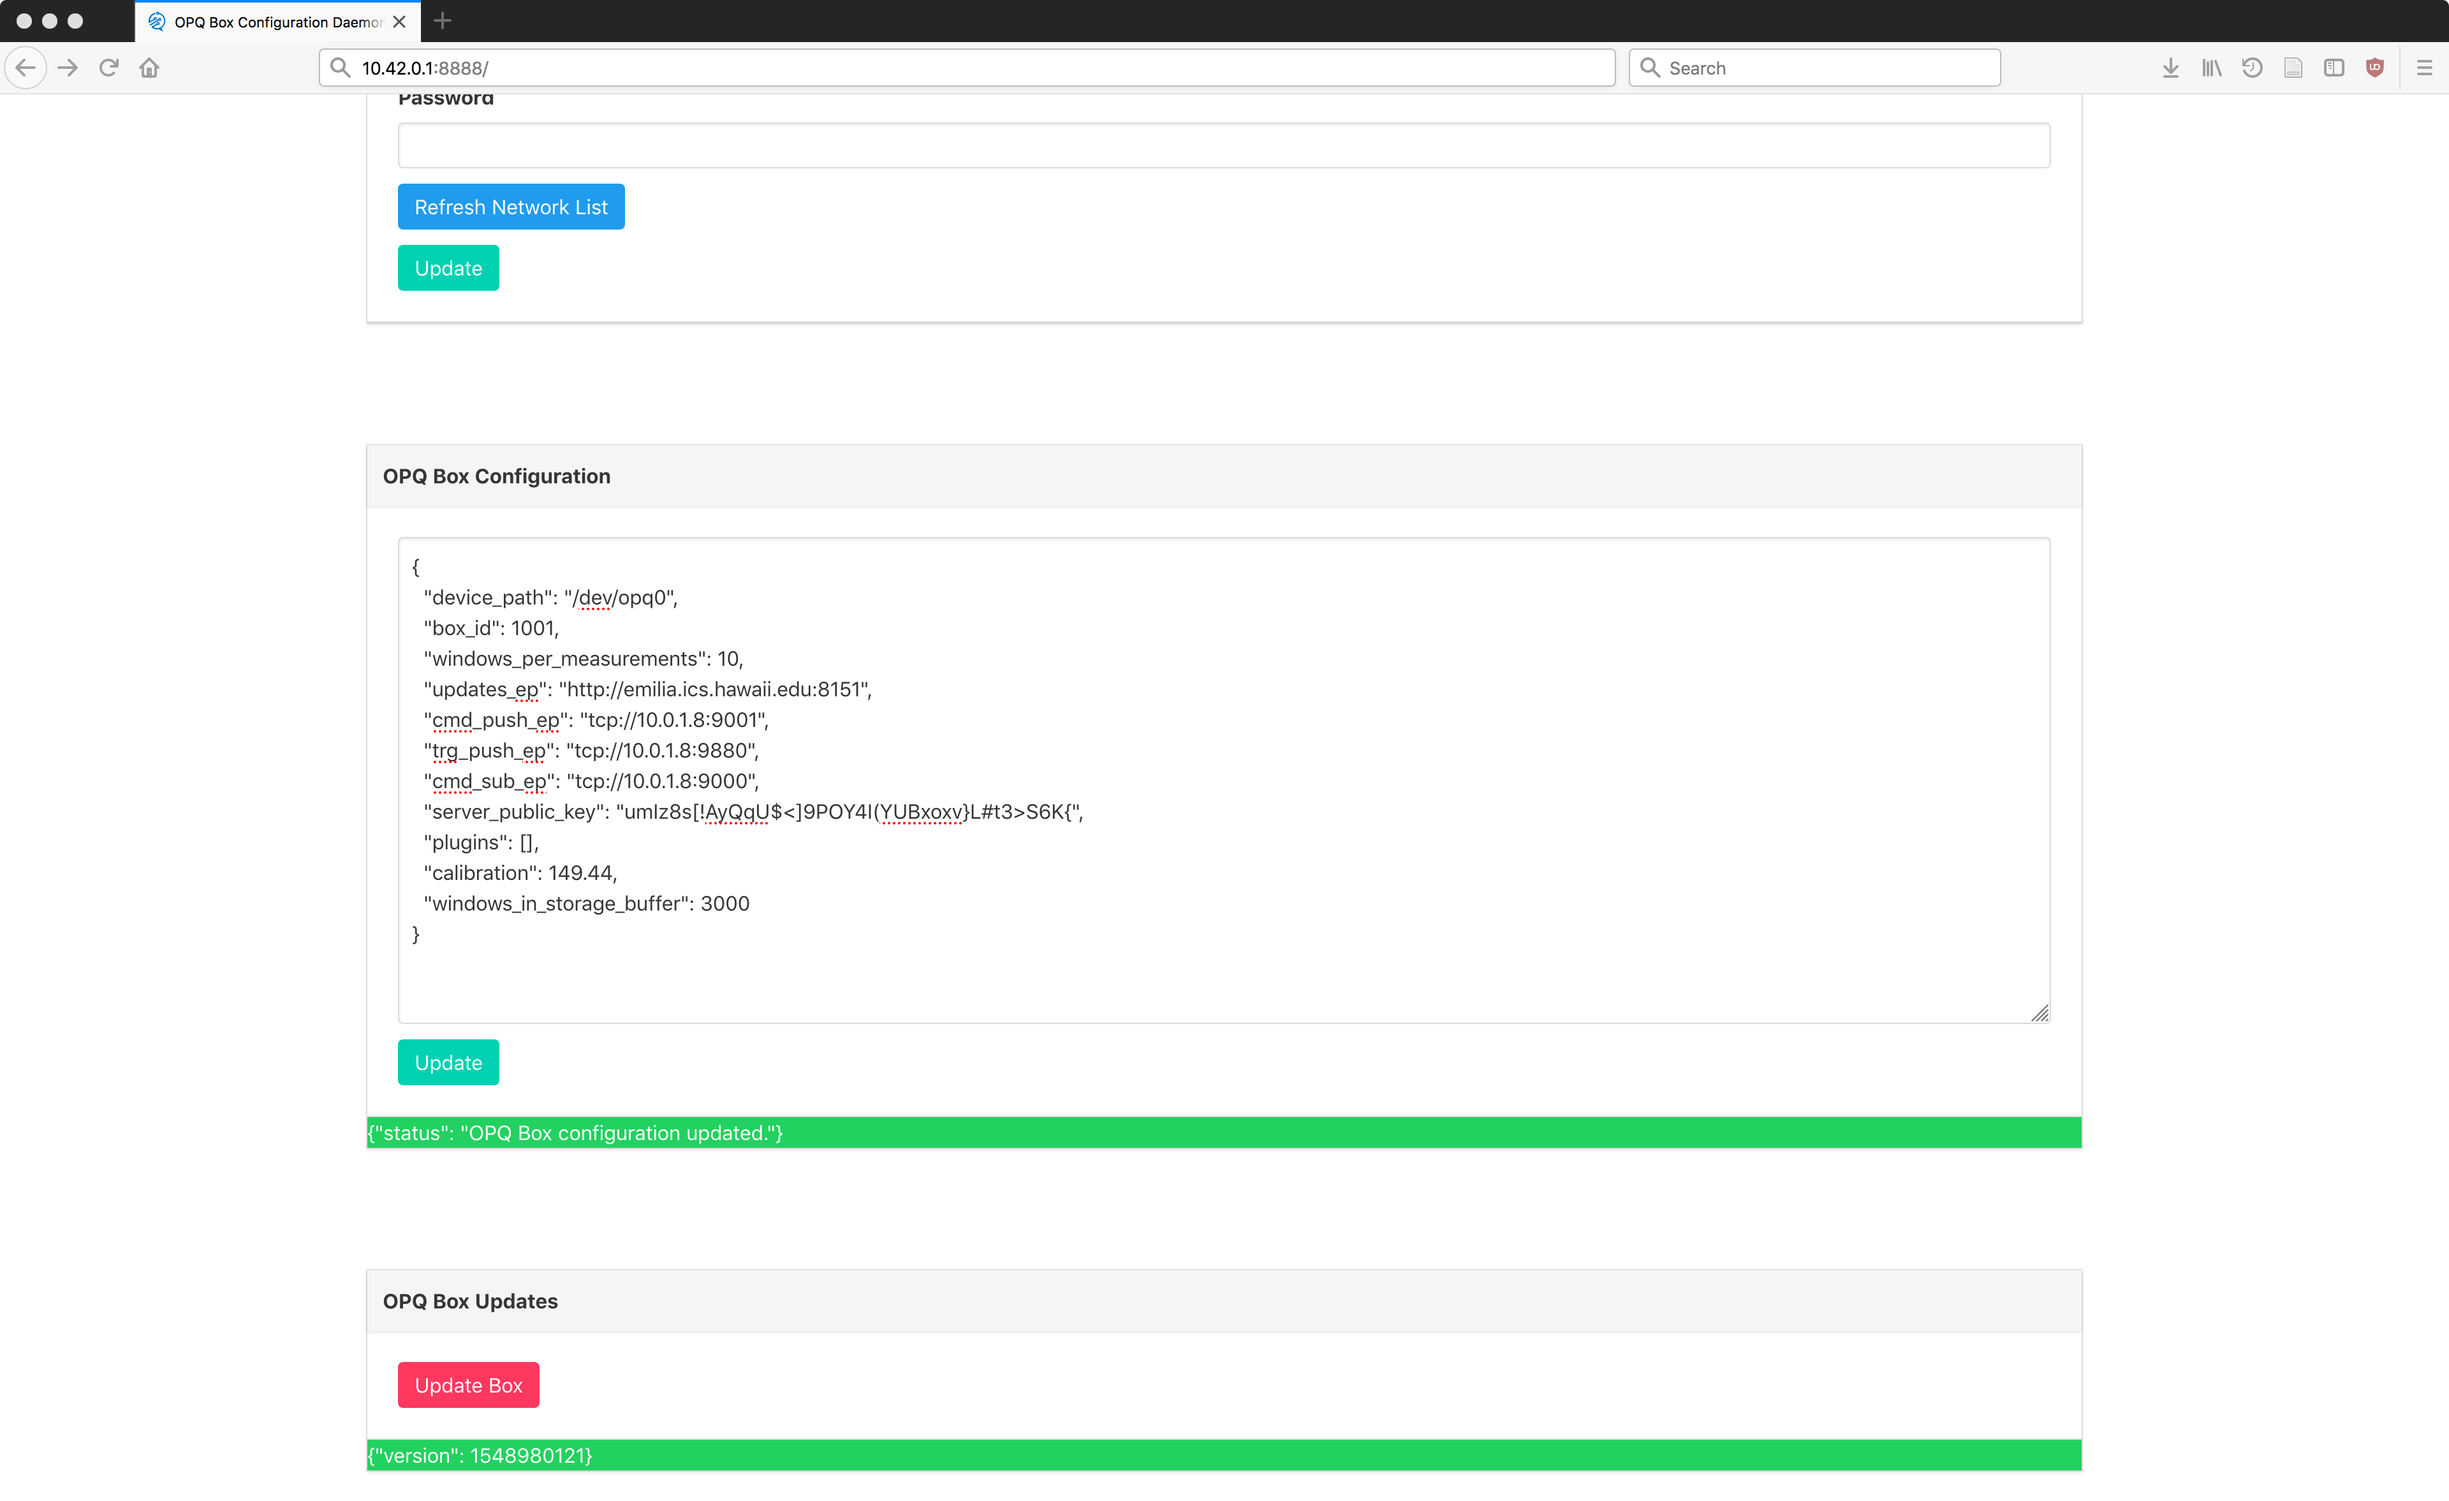
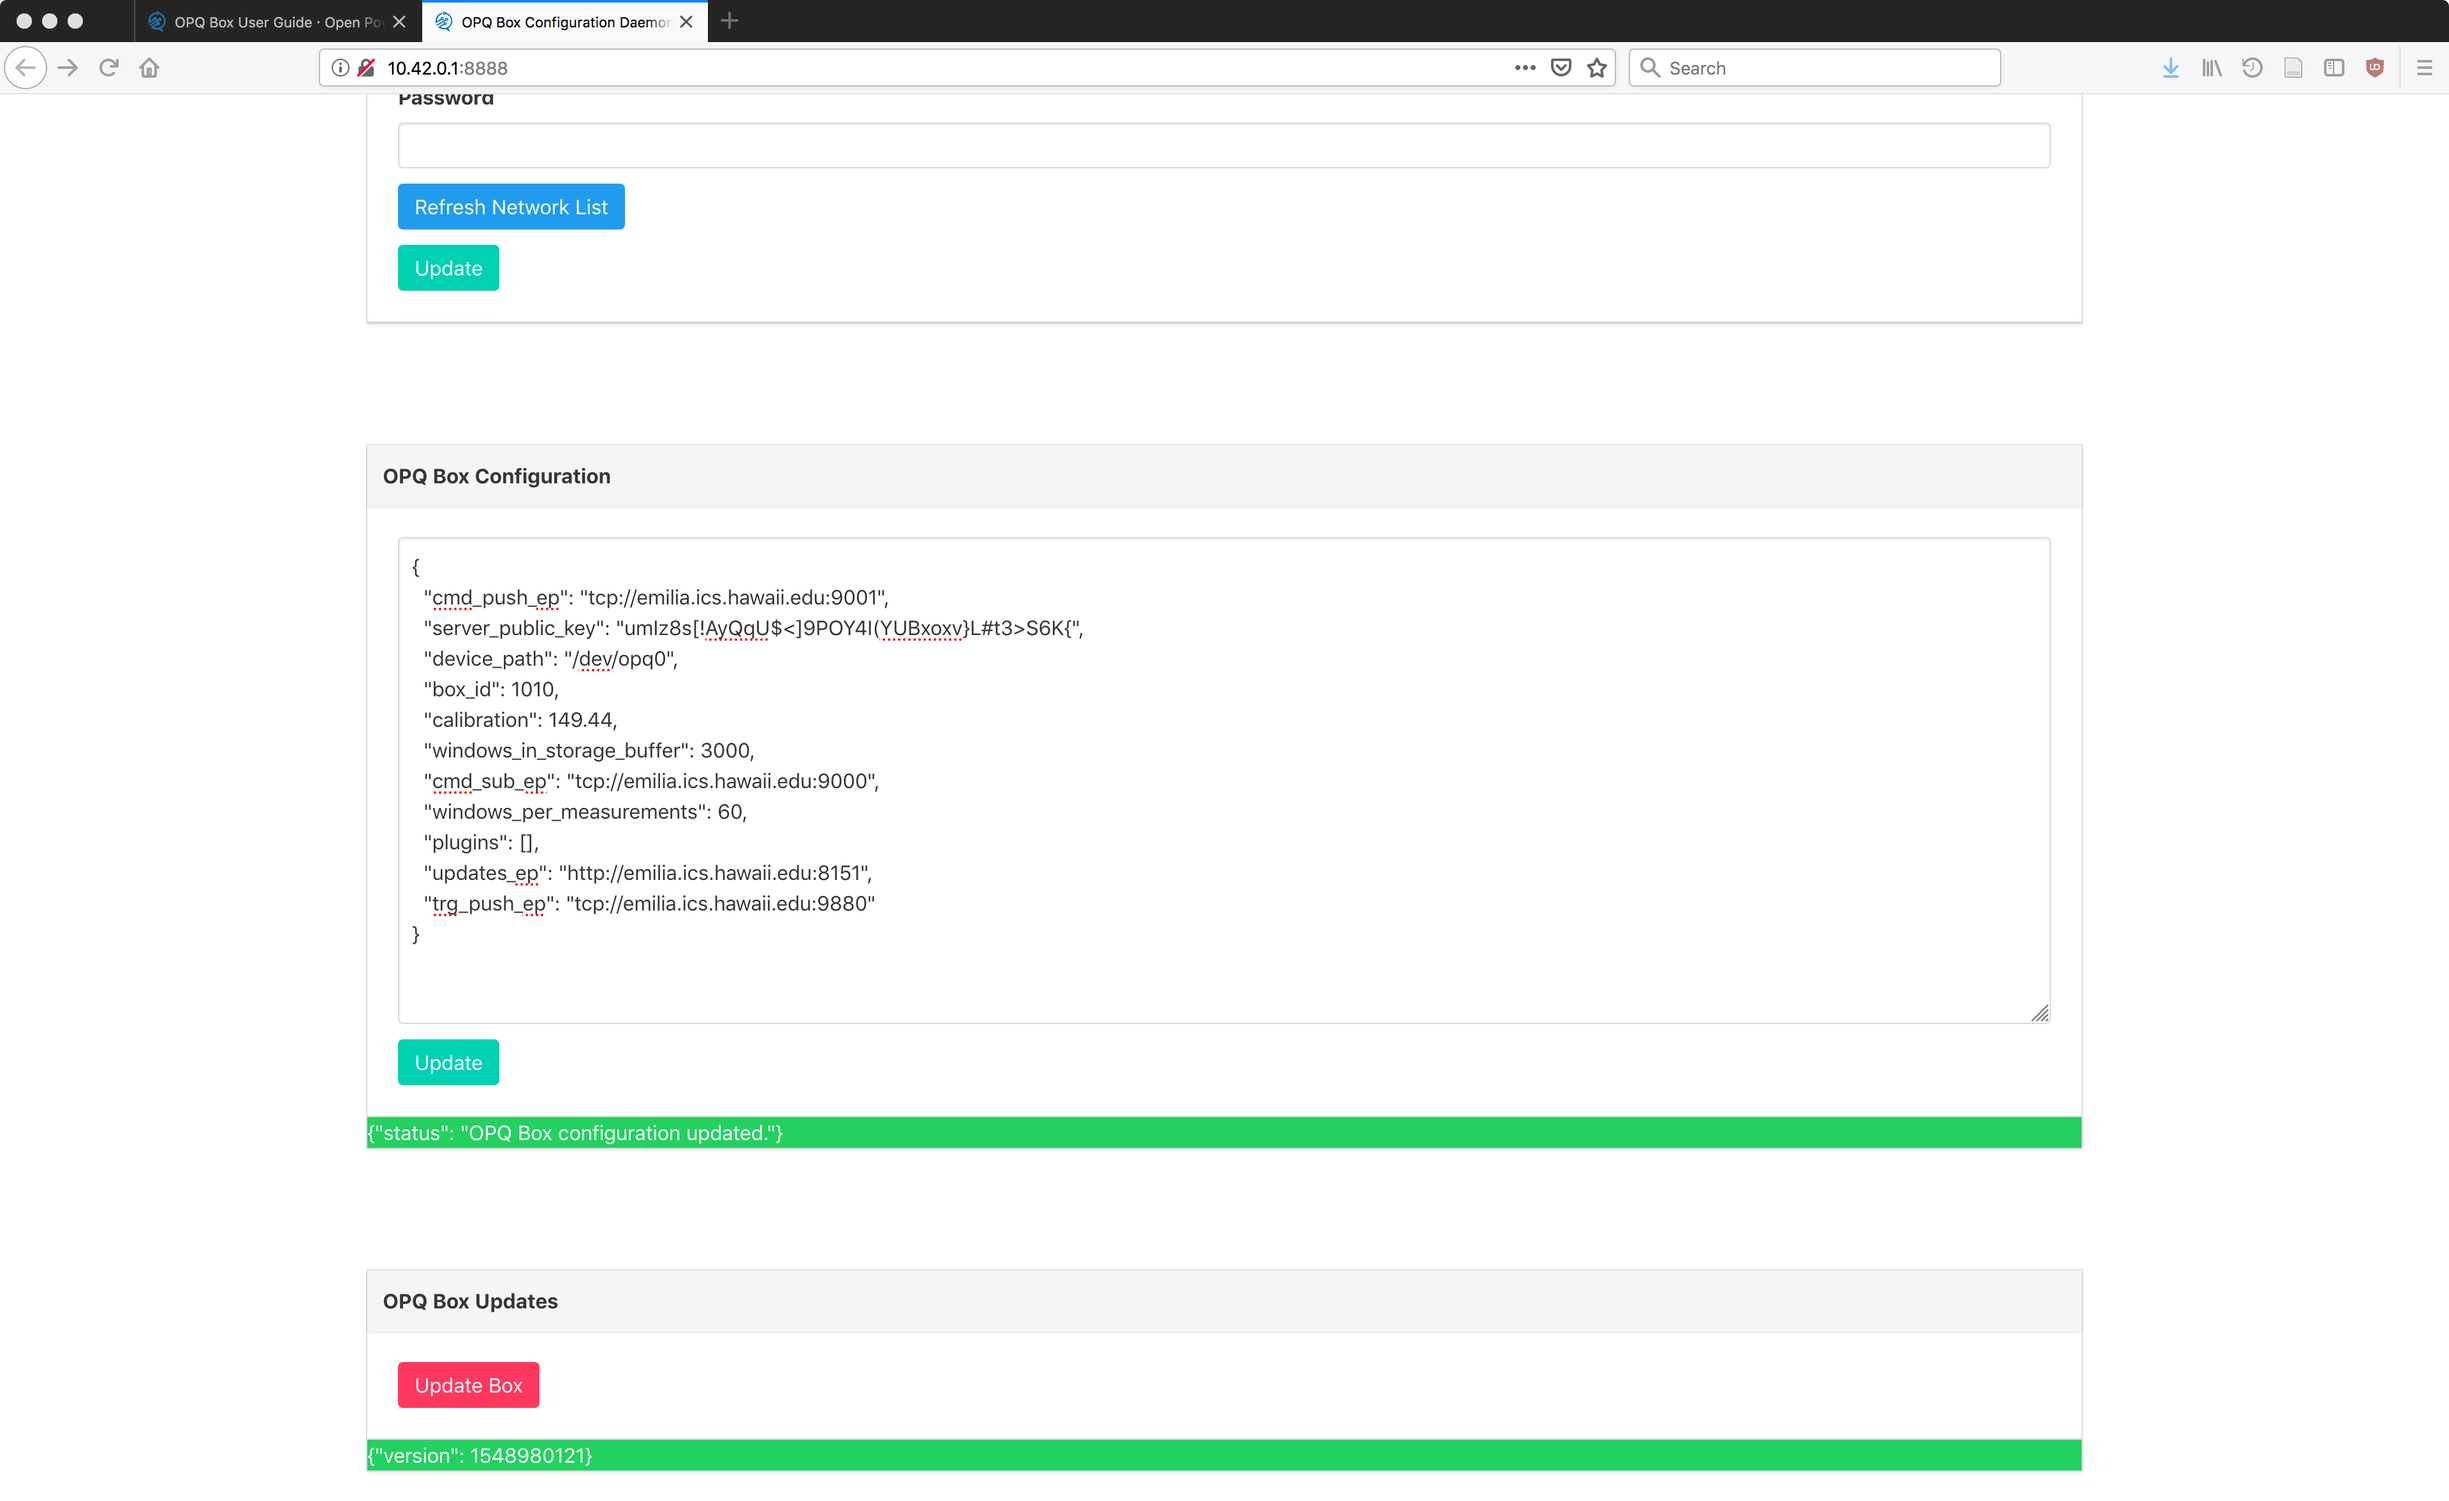
Update screenshots and some descriptions of screenshots.

Changed region(s): [[0.1875, 0.3721, 0.4375, 0.6202], [0.0312, 0.0, 0.3125, 0.062], [0.625, 0.031, 0.6562, 0.062]]

diff --git a/docs/userguide-hardware.md b/docs/userguide-hardware.md
@@ -99,7 +99,7 @@ The configuration is provided in the form of a JSON file. Only valid JSON will b
 | cmd_sub_ep | String | Subscription endpoint for acquisition (tcp://url_or_ip:port) | tcp://emilia.ics.hawaii.edu:9000 |
 | cmd_push_ep | String | Push endpoint for acquisition (tcp://url_or_ip:port) | tcp://emilia.ics.hawaii.edu:9001 |
 | trg_push_ep | String | Push endpoint for triggering (tcp://url_or_ip:port) | tcp://emilia.ics.hawaii.edu:9880 |
-| updates_ep | String | Endpoint to check and pull OPQ Box updates (http[s]://url_or_ip:port/path) | http://emilia.ics.hawaii.edu:8151 |
+| updates_ep | String | Endpoint to check and pull OPQ Box updates (http[s]://url_or_ipcd :port/path) | http://emilia.ics.hawaii.edu:8151 |
 | server_public_key | String | The public key of the acquisition server for data encryption | |
 | box_id | Integer | The id of the box. Must be positive and unique. | |
 | device_path | String | Unknown | /dev/opq0 |
@@ -111,9 +111,11 @@ The configuration is provided in the form of a JSON file. Only valid JSON will b
 
 When you are done editing your OPQ Box configuration, click the "Update" button. A green status message indicates success and a red status message indicates an error and provides an error message.
 
+Your box will need to be restarted for changes to take effect.
+
 #### Example Box configuration success
 
-In this example, we update the box_id from 0 to 10 and then click Update. Note: only OPQ Cloud administrators should edit Box IDs.  If you specify the same ID as an already existing OPQ Box, then that data will be combined and you will not be able to distinguish the data from the two boxes.
+In this example, we update the box_id from 1001 to 1010 and then click Update. Note: only OPQ Cloud administrators should edit Box IDs.  If you specify the same ID as an already existing OPQ Box, then that data will be combined and you will not be able to distinguish the data from the two boxes.
 
 <img src="/docs/assets/box/opqbox_config_2.png" width="100%">
 
